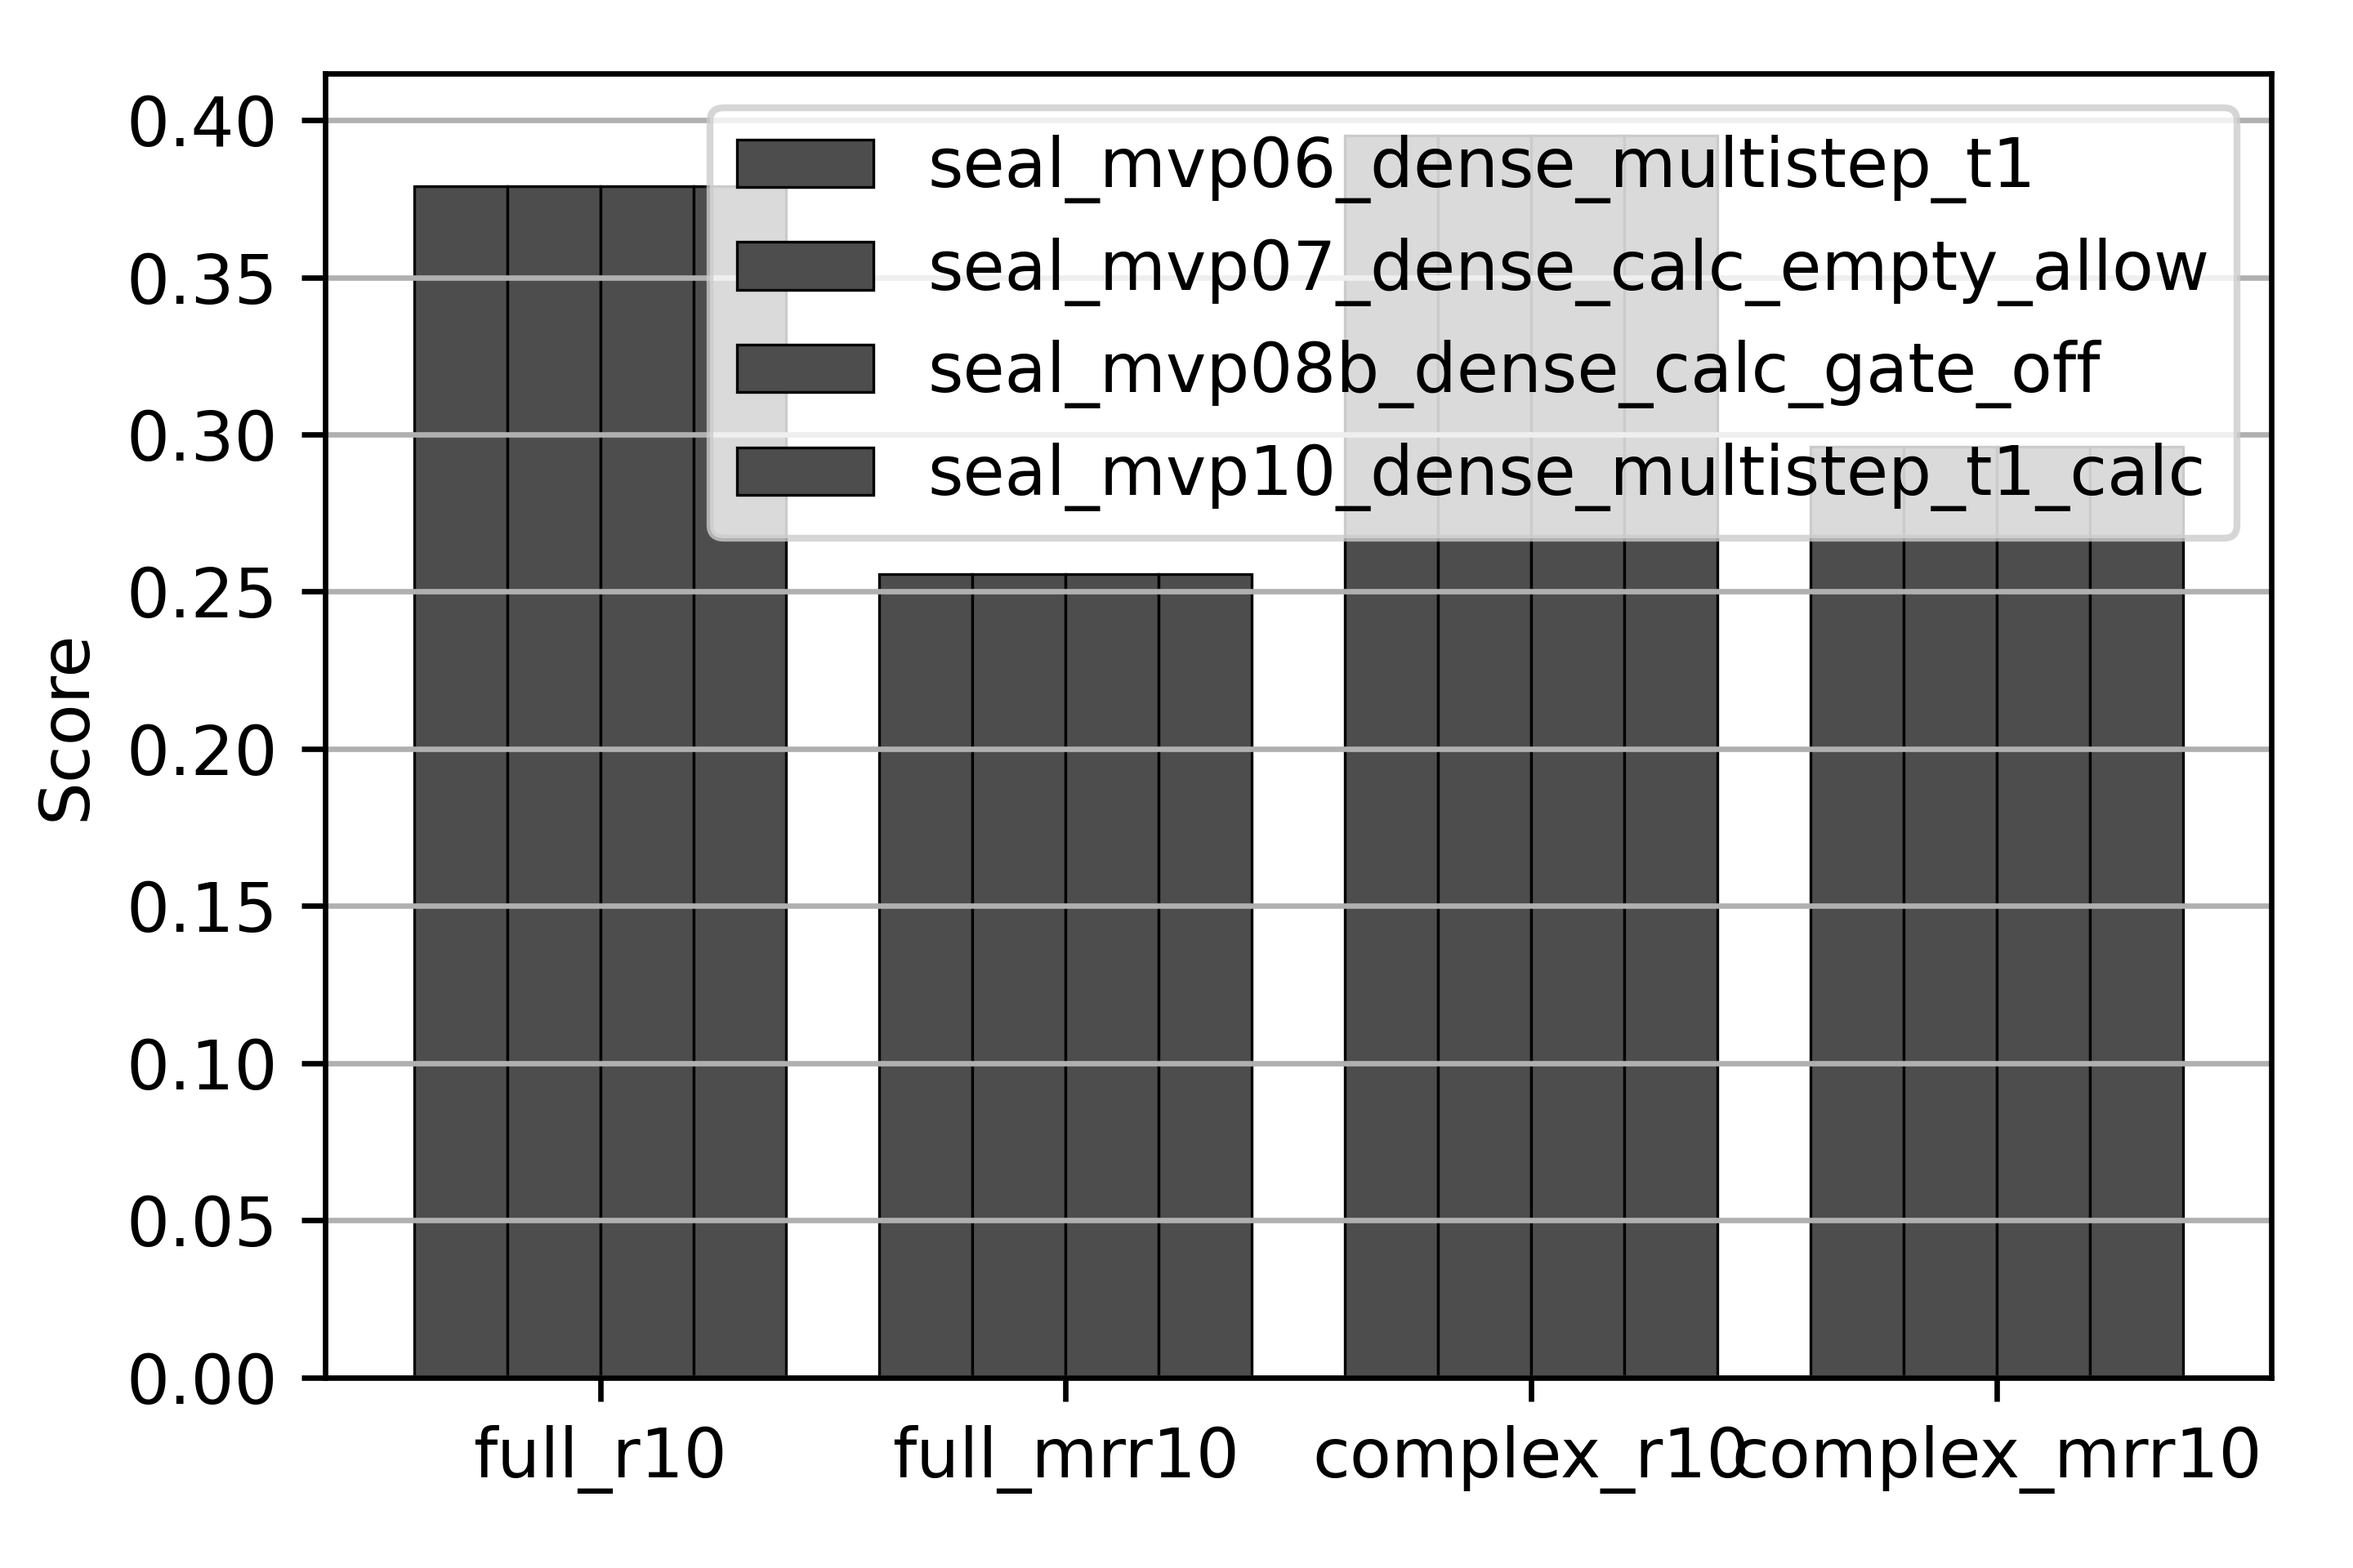
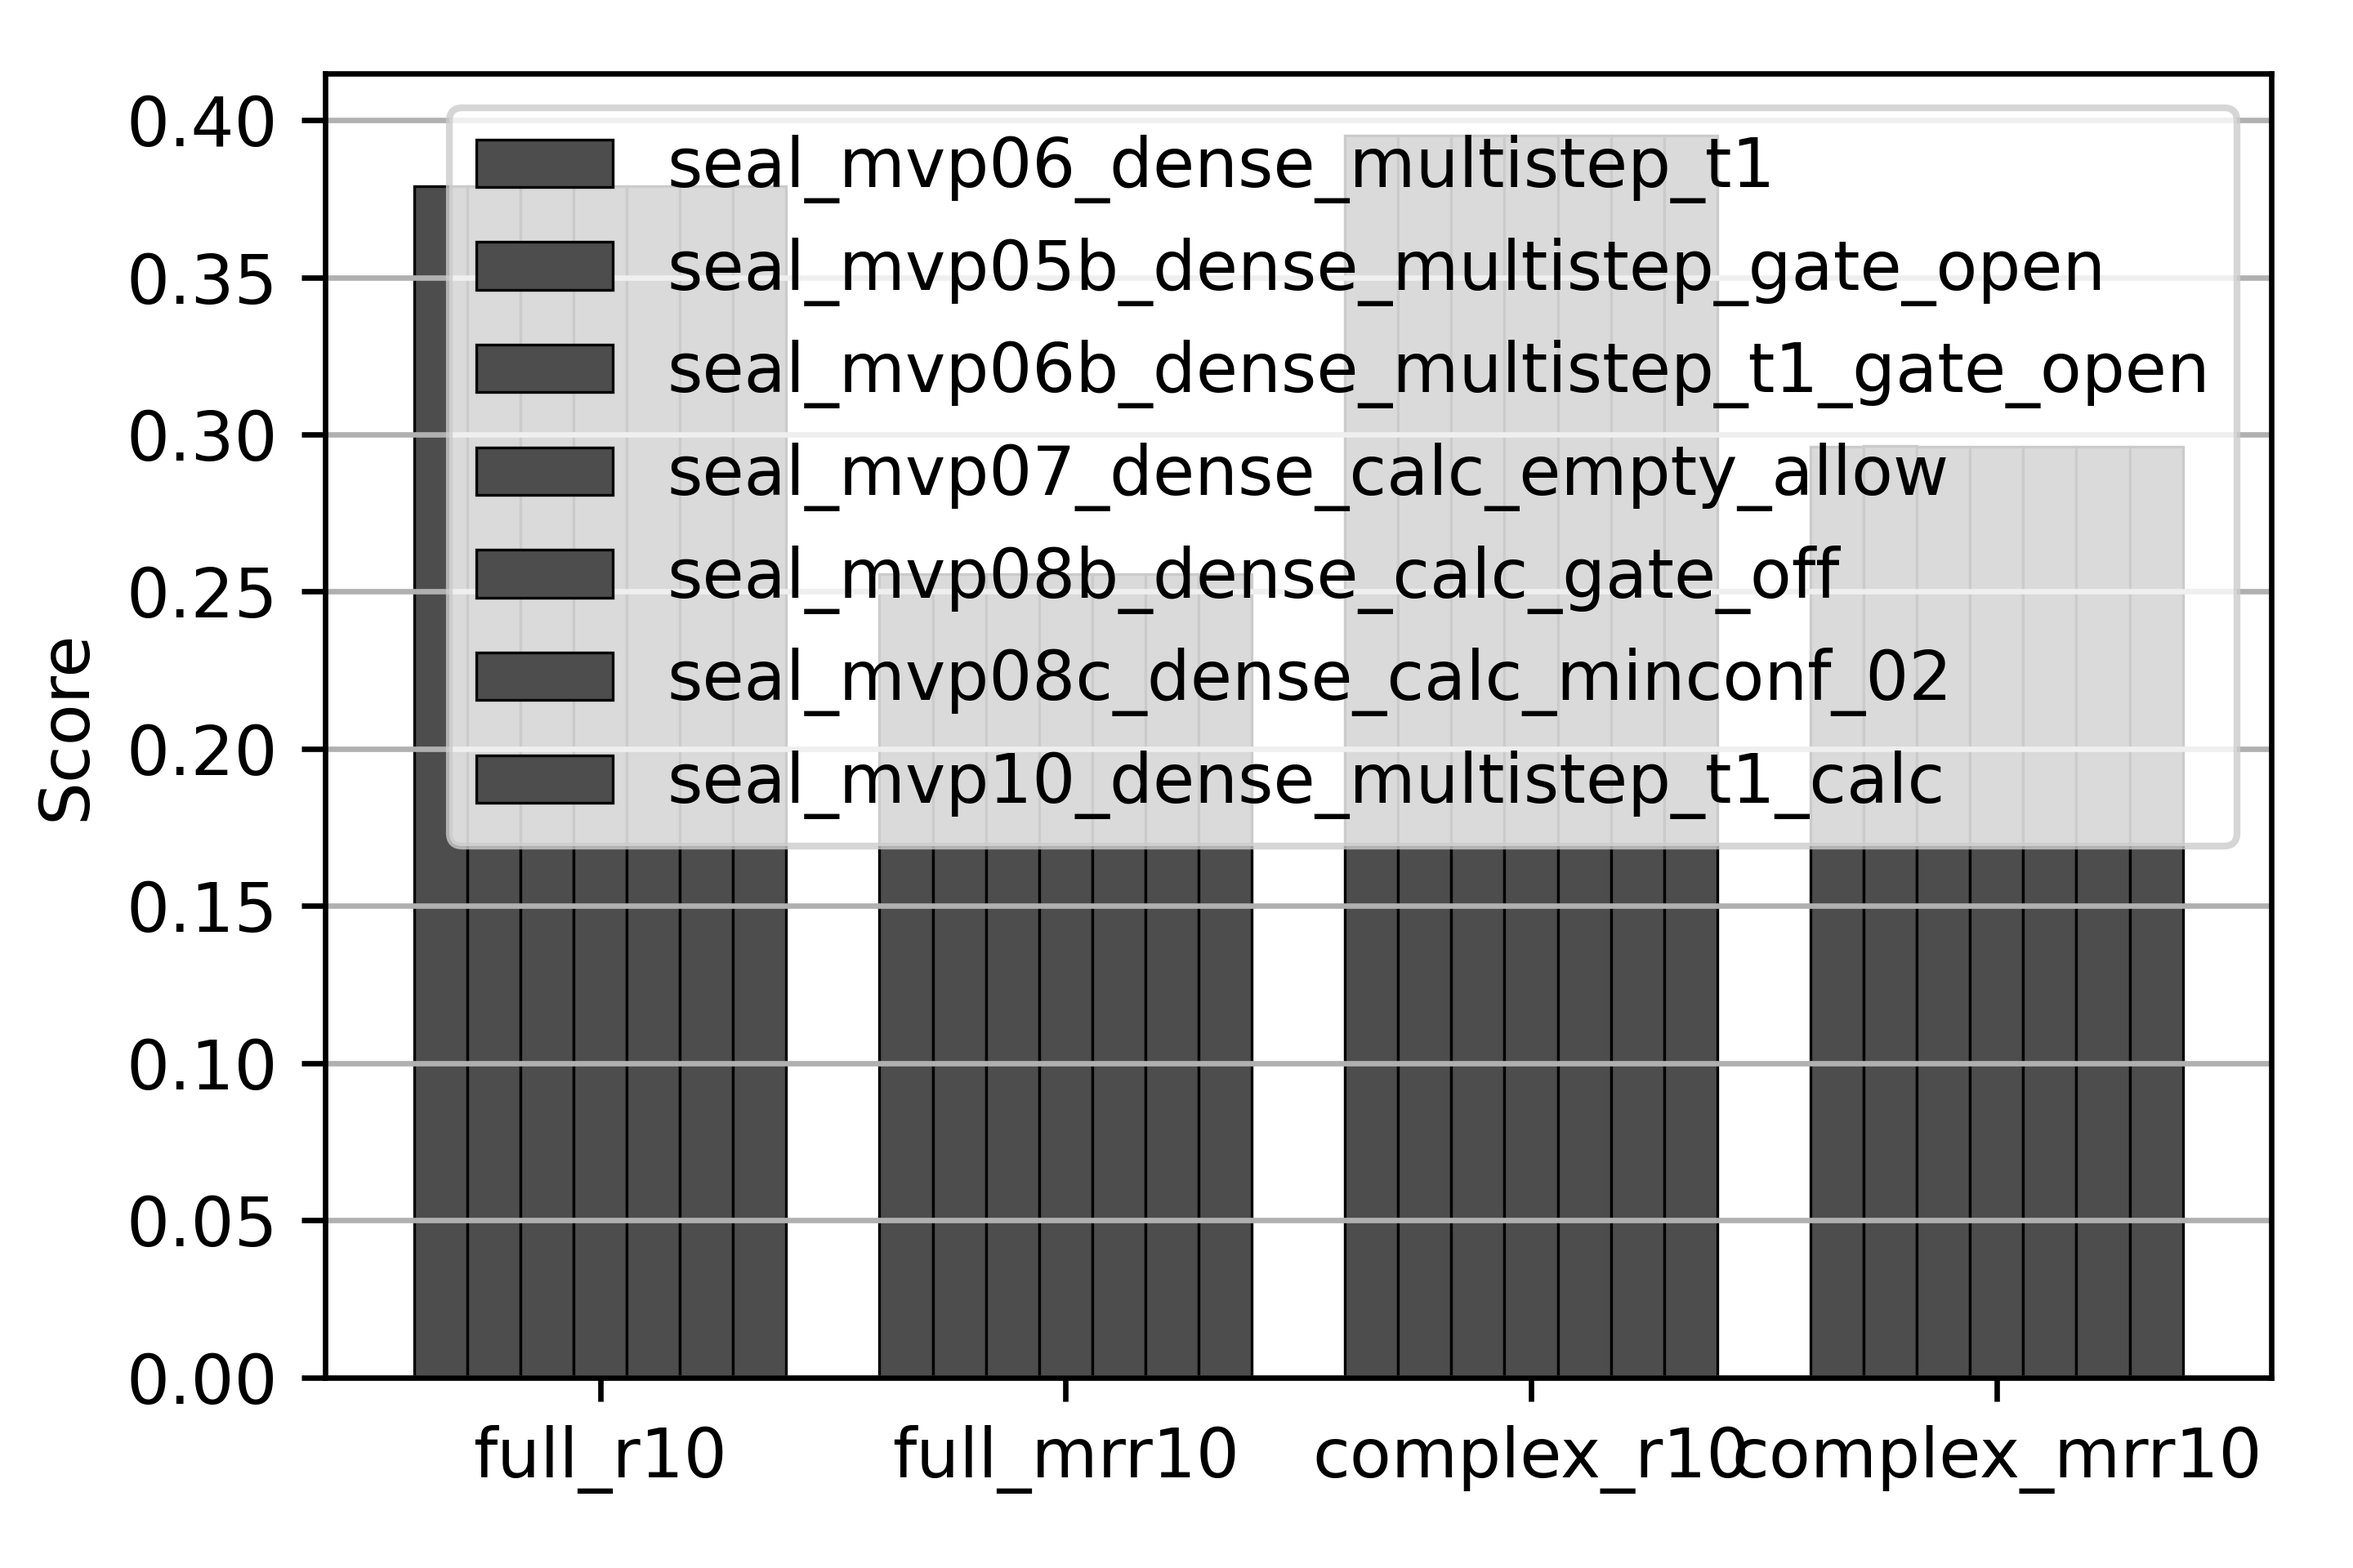
check_2

Changed region(s): [[0.1875, 0.0625, 0.9688, 0.5625]]

diff --git a/thesis/figures_seal/ThemeA/tables/main_results.tex b/thesis/figures_seal/ThemeA/tables/main_results.tex
@@ -8,9 +8,12 @@ seal_mvp03_bm25_singlestep & 0.2246 & 0.1266 & 0.2099 & 0.1266 & 0.2136 & 0.1233
 seal_mvp04_hybrid_singlestep & \underline{0.3491} & 0.2092 & \underline{0.3457} & 0.2159 & \underline{0.3373} & 0.1992 \\
 seal_mvp05_dense_multistep & \textbf{0.3789} & \textbf{0.2556} & \textbf{0.3951} & \textbf{0.2965} & \textbf{0.3713} & \textbf{0.2499} \\
 seal_mvp06_dense_multistep_t1 & \textbf{0.3789} & \underline{0.2554} & \textbf{0.3951} & \underline{0.2961} & \textbf{0.3713} & \underline{0.2497} \\
+seal_mvp05b_dense_multistep_gate_open & \textbf{0.3789} & \textbf{0.2556} & \textbf{0.3951} & \textbf{0.2965} & \textbf{0.3713} & \textbf{0.2499} \\
+seal_mvp06b_dense_multistep_t1_gate_open & \textbf{0.3789} & \underline{0.2554} & \textbf{0.3951} & \underline{0.2961} & \textbf{0.3713} & \underline{0.2497} \\
 seal_mvp07_dense_calc_empty_allow & \textbf{0.3789} & \underline{0.2554} & \textbf{0.3951} & \underline{0.2961} & \textbf{0.3713} & \underline{0.2497} \\
 seal_mvp08_dense_calc_allow_yoy_diff & \textbf{0.3789} & \underline{0.2554} & \textbf{0.3951} & \underline{0.2961} & \textbf{0.3713} & \underline{0.2497} \\
 seal_mvp08b_dense_calc_gate_off & \textbf{0.3789} & \underline{0.2554} & \textbf{0.3951} & \underline{0.2961} & \textbf{0.3713} & \underline{0.2497} \\
+seal_mvp08c_dense_calc_minconf_02 & \textbf{0.3789} & \underline{0.2554} & \textbf{0.3951} & \underline{0.2961} & \textbf{0.3713} & \underline{0.2497} \\
 seal_mvp09_dense_multistep_calc & \textbf{0.3789} & \textbf{0.2556} & \textbf{0.3951} & \textbf{0.2965} & \textbf{0.3713} & \textbf{0.2499} \\
 seal_mvp10_dense_multistep_t1_calc & \textbf{0.3789} & \underline{0.2554} & \textbf{0.3951} & \underline{0.2961} & \textbf{0.3713} & \underline{0.2497} \\
 \bottomrule

diff --git a/docs/SEAL_DECISION.md b/docs/SEAL_DECISION.md
@@ -196,8 +196,10 @@ python scripts/plot_all.py --config scripts/plot_config.yaml
 
 ## 6) Risk statement
 
-1. `latest` model pointer drift risk remains unless Action 4 is applied.
-   Evidence: `configs/step6_matrix_seal.yaml:14`.
+1. Retriever model pointer drift has been mitigated by Action 4
+   (`latest` -> immutable version path), but historical runs still used `latest`.
+   Evidence: `configs/step6_matrix_seal.yaml:14`,
+   `outputs/20260217_123645_68f6b9/runs/20260217_123645_68f6b9_m05_ms/logs.txt:5`.
 2. Calculator numeric gains are currently confounded by heavy fallback gating;
    results can flip with small gate changes.
    Evidence: `outputs/20260217_123645_68f6b9/runs/20260217_123645_68f6b9_m08_calc/calc_stats.json:16`.
@@ -273,3 +275,86 @@ Evidence log:
 
 Status impact:
 - Action2 did not reduce calculator fallback bottleneck, so global seal decision remains `No`.
+
+---
+
+## 10) Execution update (Action 3 done, not closing multistep)
+
+Action executed:
+- Added `seal_mvp05b_dense_multistep_gate_open` and
+  `seal_mvp06b_dense_multistep_t1_gate_open` in `configs/step6_matrix_seal.yaml`
+  with `multistep.gate.min_gap_conf=0.0`.
+- Ran smoke precheck:
+  `python scripts/smoke.py --config configs/smoke.yaml --run-id a9_action3_smoke`
+  (evidence: `outputs/a9_action3_smoke/logs.txt:1`).
+- Ran pair matrix:
+  `python scripts/run_matrix_step6.py --base-config configs/step6_base.yaml --matrix outputs/tmp_matrix_action3_m05b_m06b.yaml`.
+
+Run artifacts:
+- matrix: `outputs/20260218_023916_906096/matrix.json:2`
+- m05b summary: `outputs/20260218_023916_906096/runs/20260218_023916_906096_m01/summary.json:2`
+- m06b summary: `outputs/20260218_023916_906096/runs/20260218_023916_906096_m02/summary.json:2`
+
+m05/m06 vs m05b/m06b comparison:
+- m05 full/complex MRR@10 unchanged:
+  `0.255595 / 0.296471` -> `0.255595 / 0.296471`
+- m06 full/complex MRR@10 unchanged:
+  `0.255448 / 0.296128` -> `0.255448 / 0.296128`
+- avg_steps unchanged:
+  `m05 1.081 -> m05b 1.081`, `m06 1.000 -> m06b 1.000`
+
+Evidence:
+- `outputs/seal_checks/action3_multistep_compare.json:2`
+- `outputs/seal_checks/action3_multistep_compare.json:47`
+
+Status impact:
+- Action3 executed successfully, but did not improve multistep effect size.
+
+---
+
+## 11) Execution update (Action 4/5/6 done)
+
+Action 4 (lock retriever path):
+- Replaced all `models/retriever_ft/latest` in seal matrix with immutable
+  `models/retriever_ft/20260203_005729_cd195e`.
+- Evidence: `configs/step6_matrix_seal.yaml:14`,
+  `configs/step6_matrix_seal.yaml:41`,
+  `configs/step6_matrix_seal.yaml:154`.
+
+Action 5 (update experiments + regenerate tables):
+- Updated `configs/step6_experiments_seal.yaml` with new runs:
+  `m05b`, `m06b`, `m08c`.
+- Evidence: `configs/step6_experiments_seal.yaml:20`,
+  `configs/step6_experiments_seal.yaml:23`,
+  `configs/step6_experiments_seal.yaml:35`.
+- Ran:
+  `python scripts/make_tables.py --experiments configs/step6_experiments_seal.yaml`
+- Table evidence:
+  `docs/TABLE_MAIN.md:9`,
+  `docs/TABLE_ABLATION.md:4`,
+  `docs/TABLE_NUMERIC.md:14`.
+
+Action 6 (plot_all acceptance):
+- Ran:
+  `python scripts/plot_all.py --config scripts/plot_config.yaml`
+- Enabled figure has data:
+  `outputs/20260218_024755_ad935b/logs.txt:8` (`has_data=True`).
+- Main result table rendered with 14 runs:
+  `outputs/20260218_024755_ad935b/logs.txt:7`.
+- Disabled figures remain disabled by config (not a failure):
+  `scripts/plot_config.yaml:46`,
+  `scripts/plot_config.yaml:54`,
+  `scripts/plot_config.yaml:66`,
+  `scripts/plot_config.yaml:73`,
+  `scripts/plot_config.yaml:80`.
+
+---
+
+## 12) Decision refresh after Action 3-6
+
+- Traceability, tables, plotting, and model path freeze are now in good state.
+- Core closure still fails on two scientific gates:
+  1) calculator fallback remains high (`m08`/`m08c`);
+  2) multistep ablation effect remains negligible (`m05/m06` vs `m05b/m06b`).
+
+Final seal decision remains: **No**.

diff --git a/docs/SEAL_CHECK_step4_step5_ablation.md b/docs/SEAL_CHECK_step4_step5_ablation.md
@@ -226,3 +226,40 @@ Source: `scripts/run_with_calculator.py:271` 到 `scripts/run_with_calculator.py
 判定：
 - Action2 未通过（`min_conf` 下调对当前瓶颈无效，m08c 与 m08 指标完全一致）；
 - 当前主要阻断仍在 `allow_task_types` + 任务识别分布导致的 `gate_task` 大规模触发。
+
+---
+
+## 8) 2026-02-18 Action3 执行更新（m05b/m06b multistep gate-open）
+
+执行内容：
+- 在 `configs/step6_matrix_seal.yaml` 新增：
+  - `seal_mvp05b_dense_multistep_gate_open`
+  - `seal_mvp06b_dense_multistep_t1_gate_open`
+  并将两者 `multistep.gate.min_gap_conf=0.0`。
+- one-run pair matrix：
+  `python scripts/run_matrix_step6.py --base-config configs/step6_base.yaml --matrix outputs/tmp_matrix_action3_m05b_m06b.yaml`
+  （证据：`outputs/20260218_023916_906096/matrix.json:2`）。
+
+关键结果（old vs new）：
+
+| 对照 | Full MRR@10 | Complex MRR@10 | avg_steps | stop_reasons |
+|---|---:|---:|---:|---|
+| m05_old (`gate=0.3`) | 0.255595 | 0.296471 | 1.081 | `MAX_STEPS=45, GATE_BLOCKED=525` |
+| m05b_new (`gate=0.0`) | 0.255595 | 0.296471 | 1.081 | `MAX_STEPS=45, GATE_BLOCKED=525` |
+| m06_old (`gate=0.3`) | 0.255448 | 0.296128 | 1.000 | `MAX_STEPS=46, GATE_BLOCKED=524` |
+| m06b_new (`gate=0.0`) | 0.255448 | 0.296128 | 1.000 | `MAX_STEPS=46, GATE_BLOCKED=524` |
+
+证据：
+- 汇总对照：
+  `outputs/seal_checks/action3_multistep_compare.json:2`
+  `outputs/seal_checks/action3_multistep_compare.json:32`
+- m05b multistep 日志：
+  `outputs/20260218_023916_906096/runs/20260218_023916_906096_m01_ms/logs.txt:8`
+  `outputs/20260218_023916_906096/runs/20260218_023916_906096_m01_ms/logs.txt:9`
+- m06b multistep 日志：
+  `outputs/20260218_023916_906096/runs/20260218_023916_906096_m02_ms/logs.txt:8`
+  `outputs/20260218_023916_906096/runs/20260218_023916_906096_m02_ms/logs.txt:9`
+
+判定：
+- Action3 已执行但未形成有效提升证据；
+- 现阶段 multistep 的收益仍然仅为极小量级（与旧 run 完全一致）。

diff --git a/docs/TABLE_MAIN.md b/docs/TABLE_MAIN.md
@@ -6,8 +6,11 @@
 | seal_mvp04_hybrid_singlestep | 20260217_123645_68f6b9/runs/20260217_123645_68f6b9_m04 | 0.3491 | 0.2092 | 0.3457 | 0.2159 | 0.3373 | 0.1992 |
 | seal_mvp05_dense_multistep | 20260217_123645_68f6b9/runs/20260217_123645_68f6b9_m05 | 0.3789 | 0.2556 | 0.3951 | 0.2965 | 0.3713 | 0.2499 |
 | seal_mvp06_dense_multistep_t1 | 20260217_123645_68f6b9/runs/20260217_123645_68f6b9_m06 | 0.3789 | 0.2554 | 0.3951 | 0.2961 | 0.3713 | 0.2497 |
+| seal_mvp05b_dense_multistep_gate_open | 20260218_023916_906096/runs/20260218_023916_906096_m01 | 0.3789 | 0.2556 | 0.3951 | 0.2965 | 0.3713 | 0.2499 |
+| seal_mvp06b_dense_multistep_t1_gate_open | 20260218_023916_906096/runs/20260218_023916_906096_m02 | 0.3789 | 0.2554 | 0.3951 | 0.2961 | 0.3713 | 0.2497 |
 | seal_mvp07_dense_calc_empty_allow | 20260217_123645_68f6b9/runs/20260217_123645_68f6b9_m07 | 0.3789 | 0.2554 | 0.3951 | 0.2961 | 0.3713 | 0.2497 |
 | seal_mvp08_dense_calc_allow_yoy_diff | 20260217_123645_68f6b9/runs/20260217_123645_68f6b9_m08 | 0.3789 | 0.2554 | 0.3951 | 0.2961 | 0.3713 | 0.2497 |
 | seal_mvp08b_dense_calc_gate_off | 20260217_174322_d71045/runs/20260217_174322_d71045_m01 | 0.3789 | 0.2554 | 0.3951 | 0.2961 | 0.3713 | 0.2497 |
+| seal_mvp08c_dense_calc_minconf_02 | 20260218_012802_326769/runs/20260218_012802_326769_m01 | 0.3789 | 0.2554 | 0.3951 | 0.2961 | 0.3713 | 0.2497 |
 | seal_mvp09_dense_multistep_calc | 20260217_123645_68f6b9/runs/20260217_123645_68f6b9_m09 | 0.3789 | 0.2556 | 0.3951 | 0.2965 | 0.3713 | 0.2499 |
 | seal_mvp10_dense_multistep_t1_calc | 20260217_123645_68f6b9/runs/20260217_123645_68f6b9_m10 | 0.3789 | 0.2554 | 0.3951 | 0.2961 | 0.3713 | 0.2497 |

diff --git a/docs/TABLE_NUMERIC.md b/docs/TABLE_NUMERIC.md
@@ -6,8 +6,11 @@
 | seal_mvp04_hybrid_singlestep | 20260217_123645_68f6b9/runs/20260217_123645_68f6b9_m04 | - | - | - |
 | seal_mvp05_dense_multistep | 20260217_123645_68f6b9/runs/20260217_123645_68f6b9_m05 | - | - | - |
 | seal_mvp06_dense_multistep_t1 | 20260217_123645_68f6b9/runs/20260217_123645_68f6b9_m06 | - | - | - |
+| seal_mvp05b_dense_multistep_gate_open | 20260218_023916_906096/runs/20260218_023916_906096_m01 | - | - | - |
+| seal_mvp06b_dense_multistep_t1_gate_open | 20260218_023916_906096/runs/20260218_023916_906096_m02 | - | - | - |
 | seal_mvp07_dense_calc_empty_allow | 20260217_123645_68f6b9/runs/20260217_123645_68f6b9_m07 | 0.3964 | 689.2285 | 0.6180 |
 | seal_mvp08_dense_calc_allow_yoy_diff | 20260217_123645_68f6b9/runs/20260217_123645_68f6b9_m08 | 0.3197 | 296.5772 | 0.6695 |
 | seal_mvp08b_dense_calc_gate_off | 20260217_174322_d71045/runs/20260217_174322_d71045_m01 | 0.2867 | 290.5812 | 0.6824 |
+| seal_mvp08c_dense_calc_minconf_02 | 20260218_012802_326769/runs/20260218_012802_326769_m01 | 0.3197 | 296.5772 | 0.6695 |
 | seal_mvp09_dense_multistep_calc | 20260217_123645_68f6b9/runs/20260217_123645_68f6b9_m09 | 0.3108 | 294.2716 | 0.6760 |
 | seal_mvp10_dense_multistep_t1_calc | 20260217_123645_68f6b9/runs/20260217_123645_68f6b9_m10 | 0.3108 | 294.2716 | 0.6760 |

diff --git a/docs/TABLE_ABLATION.md b/docs/TABLE_ABLATION.md
@@ -1,6 +1,9 @@
 | label | run_id | full_r10 | full_mrr10 | complex_r10 | complex_mrr10 | abbrev_r10 | abbrev_mrr10 |
 | --- | --- | --- | --- | --- | --- | --- | --- |
 | seal_mvp06_dense_multistep_t1 | 20260217_123645_68f6b9/runs/20260217_123645_68f6b9_m06 | 0.3789 | 0.2554 | 0.3951 | 0.2961 | 0.3713 | 0.2497 |
+| seal_mvp05b_dense_multistep_gate_open | 20260218_023916_906096/runs/20260218_023916_906096_m01 | 0.3789 | 0.2556 | 0.3951 | 0.2965 | 0.3713 | 0.2499 |
+| seal_mvp06b_dense_multistep_t1_gate_open | 20260218_023916_906096/runs/20260218_023916_906096_m02 | 0.3789 | 0.2554 | 0.3951 | 0.2961 | 0.3713 | 0.2497 |
 | seal_mvp07_dense_calc_empty_allow | 20260217_123645_68f6b9/runs/20260217_123645_68f6b9_m07 | 0.3789 | 0.2554 | 0.3951 | 0.2961 | 0.3713 | 0.2497 |
 | seal_mvp08b_dense_calc_gate_off | 20260217_174322_d71045/runs/20260217_174322_d71045_m01 | 0.3789 | 0.2554 | 0.3951 | 0.2961 | 0.3713 | 0.2497 |
+| seal_mvp08c_dense_calc_minconf_02 | 20260218_012802_326769/runs/20260218_012802_326769_m01 | 0.3789 | 0.2554 | 0.3951 | 0.2961 | 0.3713 | 0.2497 |
 | seal_mvp10_dense_multistep_t1_calc | 20260217_123645_68f6b9/runs/20260217_123645_68f6b9_m10 | 0.3789 | 0.2554 | 0.3951 | 0.2961 | 0.3713 | 0.2497 |
